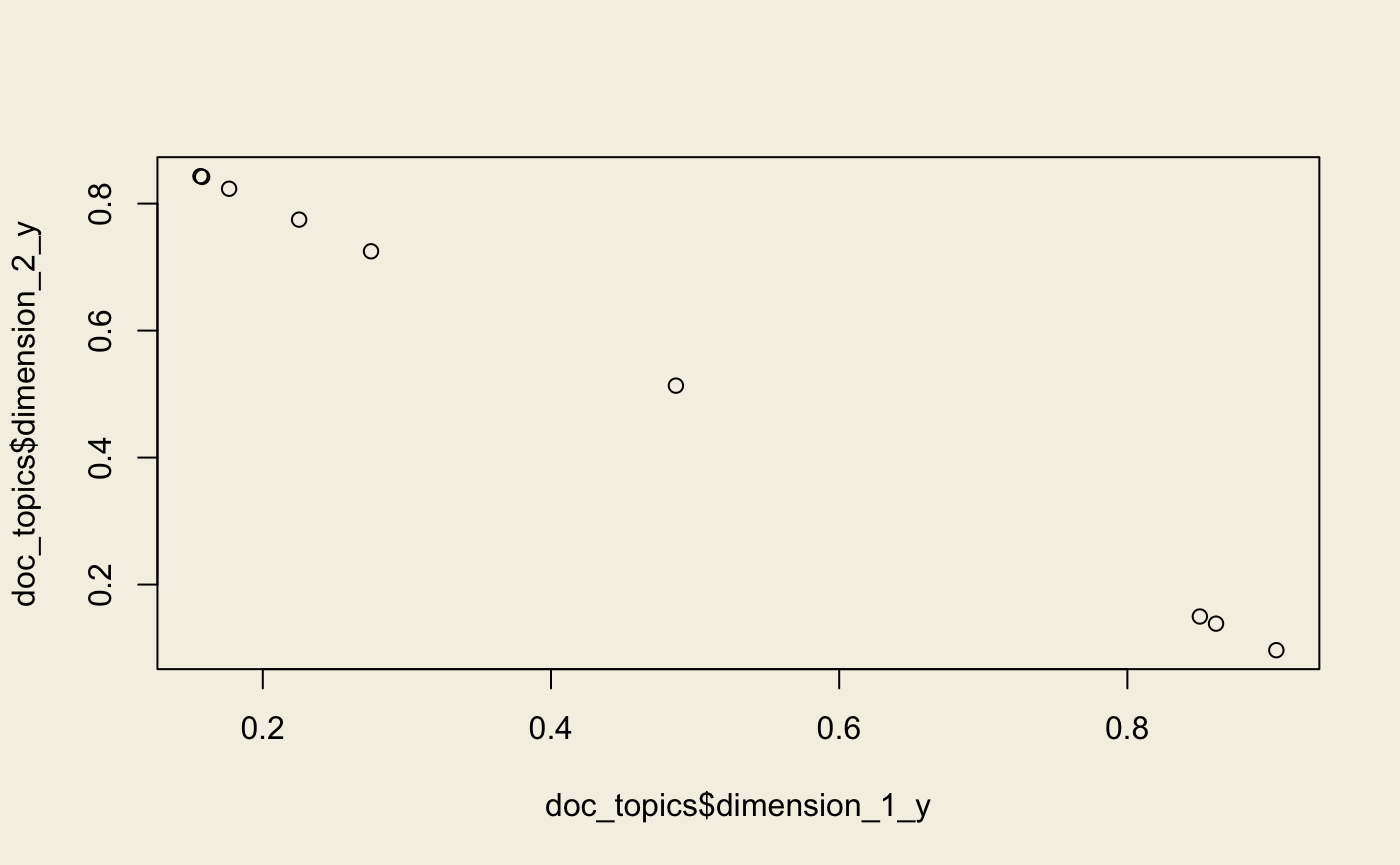
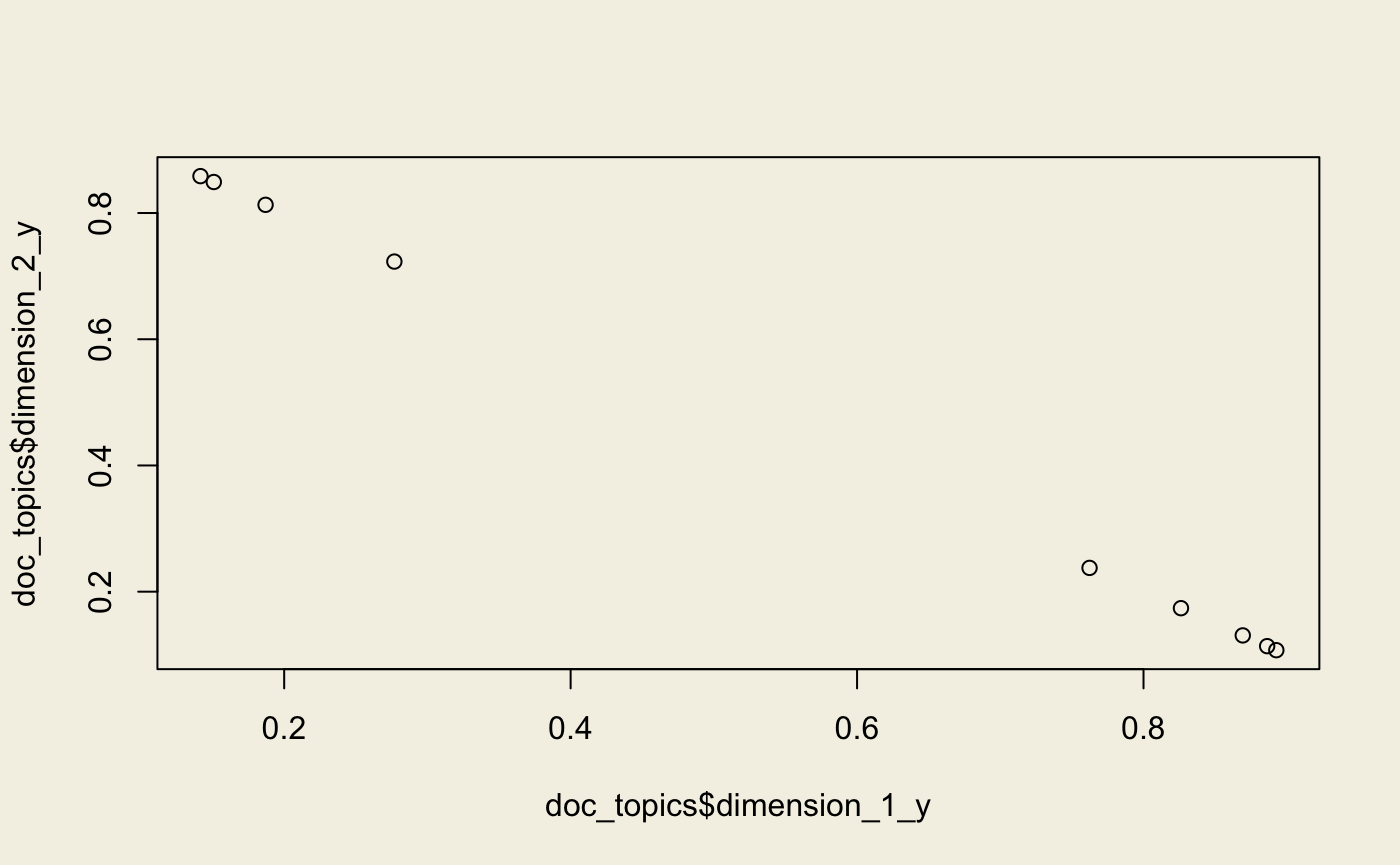
homepage redone

diff --git a/docs/index.html b/docs/index.html
@@ -183,7 +183,7 @@ Reference
 <a class="sourceLine" id="cb2-4" data-line-number="4"><span class="co">#&gt; [1] 0</span></a>
 <a class="sourceLine" id="cb2-5" data-line-number="5"><span class="co">#&gt; </span></a>
 <a class="sourceLine" id="cb2-6" data-line-number="6"><span class="co">#&gt; [[1]][[2]]</span></a>
-<a class="sourceLine" id="cb2-7" data-line-number="7"><span class="co">#&gt; [1] "0.116*\"trees\" + 0.110*\"user\" + 0.100*\"time\" + 0.098*\"response\" + 0.086*\"system\" + 0.084*\"interface\" + 0.078*\"eps\" + 0.076*\"computer\" + 0.076*\"survey\" + 0.063*\"graph\""</span></a>
+<a class="sourceLine" id="cb2-7" data-line-number="7"><span class="co">#&gt; [1] "0.127*\"system\" + 0.105*\"eps\" + 0.090*\"user\" + 0.086*\"time\" + 0.086*\"response\" + 0.085*\"human\" + 0.080*\"computer\" + 0.074*\"interface\" + 0.072*\"trees\" + 0.068*\"survey\""</span></a>
 <a class="sourceLine" id="cb2-8" data-line-number="8"><span class="co">#&gt; </span></a>
 <a class="sourceLine" id="cb2-9" data-line-number="9"><span class="co">#&gt; </span></a>
 <a class="sourceLine" id="cb2-10" data-line-number="10"><span class="co">#&gt; [[2]]</span></a>
@@ -191,7 +191,7 @@ Reference
 <a class="sourceLine" id="cb2-12" data-line-number="12"><span class="co">#&gt; [1] 1</span></a>
 <a class="sourceLine" id="cb2-13" data-line-number="13"><span class="co">#&gt; </span></a>
 <a class="sourceLine" id="cb2-14" data-line-number="14"><span class="co">#&gt; [[2]][[2]]</span></a>
-<a class="sourceLine" id="cb2-15" data-line-number="15"><span class="co">#&gt; [1] "0.133*\"graph\" + 0.119*\"trees\" + 0.115*\"minors\" + 0.096*\"human\" + 0.094*\"system\" + 0.076*\"survey\" + 0.073*\"interface\" + 0.072*\"eps\" + 0.071*\"computer\" + 0.052*\"response\""</span></a></code></pre>
+<a class="sourceLine" id="cb2-15" data-line-number="15"><span class="co">#&gt; [1] "0.161*\"trees\" + 0.129*\"graph\" + 0.108*\"minors\" + 0.083*\"survey\" + 0.083*\"interface\" + 0.071*\"user\" + 0.067*\"computer\" + 0.066*\"human\" + 0.066*\"response\" + 0.066*\"time\""</span></a></code></pre>
 <p>We can then use our model to transform our corpus and then the document topic matrix.</p>
 <pre class="sourceCode r" id="cb3"><code class="sourceCode r"><a class="sourceLine" id="cb3-1" data-line-number="1">corpus_wrapped &lt;-<span class="st"> </span><span class="kw"><a href="reference/wrap.html">wrap</a></span>(lda, corpus)</a>
 <a class="sourceLine" id="cb3-2" data-line-number="2">doc_topics &lt;-<span class="st"> </span><span class="kw"><a href="reference/get_documents_topics.html">get_docs_topics</a></span>(corpus_wrapped)</a>
